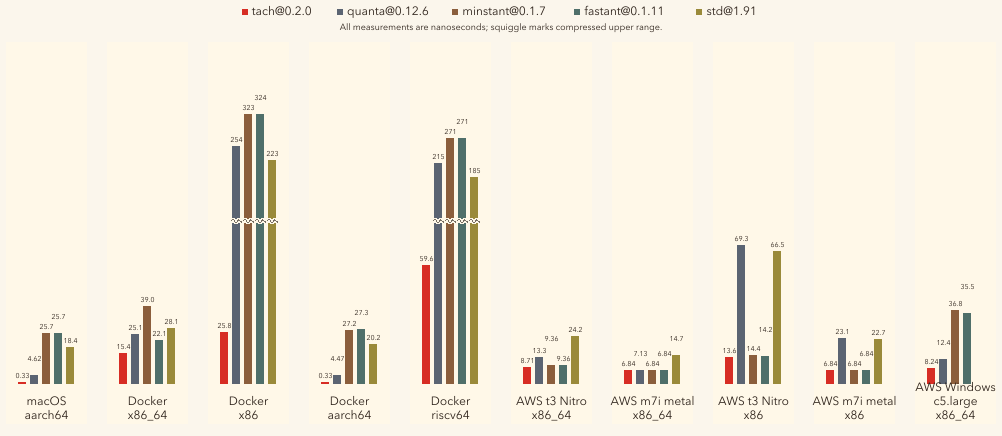
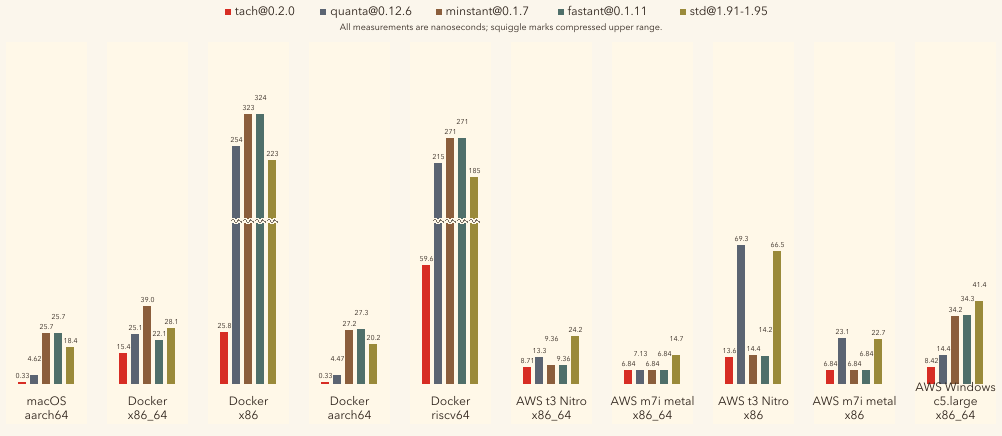
docs: refresh windows benchmark data

diff --git a/benches/assets/render_benchmark.py b/benches/assets/render_benchmark.py
@@ -22,7 +22,7 @@ CRATES = [
   ("quanta@0.12.6", "#5B6472"),
   ("minstant@0.1.7", "#8B5E3C"),
   ("fastant@0.1.11", "#4F6F6A"),
-  ("std@1.91", "#9A8A3A"),
+  ("std@1.91-1.95", "#9A8A3A"),
 ]
 
 GROUPS = [
@@ -35,7 +35,7 @@ GROUPS = [
   (("AWS m7i metal", "x86_64"), [6.841, 7.130, 6.841, 6.841, 14.734]),
   (("AWS t3 Nitro", "x86"), [13.552, 69.312, 14.363, 14.154, 66.458]),
   (("AWS m7i metal", "x86"), [6.841, 23.066, 6.841, 6.841, 22.743]),
-  (("AWS Windows", "c5.large", "x86_64"), [8.236, 12.355, 36.757, 35.516, None]),
+  (("AWS Windows", "c5.large", "x86_64"), [8.417, 14.367, 34.247, 34.286, 41.391]),
 ]
 
 BAR_WIDTH = 8

diff --git a/benches/runtime-selection-validation-2026-05-08.md b/benches/runtime-selection-validation-2026-05-08.md
@@ -6,20 +6,21 @@ Rows were produced by `tools/selection-validation-runner` with
 fastest valid clocks for that target/environment. Scores are median `ns/op` for
 `now()` reads.
 
-┌────────────────┬───────────────────┬────────────────┬───────────────────┬──────────┬──────────┬──────────┬──────────┬──────────┬──────────┐
-│ Environment    │ Target            │ Instant clock  │ Cycles clock      │ Instant  │ Cycles   │ quanta   │ minstant │ fastant  │ std      │
-├────────────────┼───────────────────┼────────────────┼───────────────────┼──────────┼──────────┼──────────┼──────────┼──────────┼──────────┤
-│ AWS t3 Nitro   │ x86_64-linux-musl │ x86_64-rdtsc   │ x86_64-rdtsc      │ 8.711    │ 8.066    │ 13.254   │ 9.356    │ 9.356    │ 24.249   │
-│ AWS m7i metal  │ x86_64-linux-musl │ x86_64-rdtsc   │ x86_64-perf-rdpmc │ 6.841    │ 5.262    │ 7.130    │ 6.841    │ 6.841    │ 14.734   │
-│ AWS m7i metal  │ x86_64-linux-gnu  │ x86_64-rdtsc   │ x86_64-perf-rdpmc │ 6.842    │ 5.526    │ 7.395    │ 6.842    │ 6.842    │ 14.812   │
-│ AWS t3 Nitro   │ x86-linux-musl    │ x86-rdtsc      │ x86-rdtsc         │ 13.552   │ 13.551   │ 69.312   │ 14.363   │ 14.154   │ 66.458   │
-│ AWS m7i metal  │ x86-linux-musl    │ x86-rdtsc      │ x86-rdtsc         │ 6.841    │ 6.841    │ 23.066   │ 6.841    │ 6.841    │ 22.743   │
-│ Docker amd64   │ x86_64-linux-gnu  │ x86_64-rdtsc   │ x86_64-rdtsc      │ 15.394   │ 15.222   │ 25.079   │ 39.050   │ 22.066   │ 28.070   │
-│ Docker 386     │ x86-linux-gnu     │ x86-rdtsc      │ x86-rdtsc         │ 25.789   │ 25.780   │ 253.702  │ 323.398  │ 324.264  │ 222.623  │
-│ Docker arm64   │ aarch64-linux-gnu │ aarch64-cntvct │ aarch64-cntvct    │ 0.330    │ 0.330    │ 4.466    │ 27.203   │ 27.275   │ 20.222   │
-│ Docker riscv64 │ riscv64-linux-gnu │ riscv64-rdtime │ riscv64-rdcycle   │ 59.584   │ 58.656   │ 215.296  │ 271.262  │ 271.241  │ 185.151  │
-│ local macOS    │ aarch64-macos     │ aarch64-cntvct │ aarch64-cntvct    │ 0.330    │ 0.330    │ 4.622    │ 25.740   │ 25.683   │ 18.422   │
-└────────────────┴───────────────────┴────────────────┴───────────────────┴──────────┴──────────┴──────────┴──────────┴──────────┴──────────┘
+┌────────────────┬─────────────────────┬────────────────┬───────────────────┬─────────┬────────┬─────────┬──────────┬─────────┬─────────┐
+│ Environment    │ Target              │ Instant clock  │ Cycles clock      │ Instant │ Cycles │ quanta  │ minstant │ fastant │ std     │
+├────────────────┼─────────────────────┼────────────────┼───────────────────┼─────────┼────────┼─────────┼──────────┼─────────┼─────────┤
+│ AWS t3 Nitro   │ x86_64-linux-musl   │ x86_64-rdtsc   │ x86_64-rdtsc      │ 8.711   │ 8.066  │ 13.254  │ 9.356    │ 9.356   │ 24.249  │
+│ AWS m7i metal  │ x86_64-linux-musl   │ x86_64-rdtsc   │ x86_64-perf-rdpmc │ 6.841   │ 5.262  │ 7.130   │ 6.841    │ 6.841   │ 14.734  │
+│ AWS m7i metal  │ x86_64-linux-gnu    │ x86_64-rdtsc   │ x86_64-perf-rdpmc │ 6.842   │ 5.526  │ 7.395   │ 6.842    │ 6.842   │ 14.812  │
+│ AWS Windows    │ x86_64-windows-msvc │ x86_64-rdtsc   │ x86_64-rdtsc      │ 8.417   │ 8.351  │ 14.367  │ 34.247   │ 34.286  │ 41.391  │
+│ AWS t3 Nitro   │ x86-linux-musl      │ x86-rdtsc      │ x86-rdtsc         │ 13.552  │ 13.551 │ 69.312  │ 14.363   │ 14.154  │ 66.458  │
+│ AWS m7i metal  │ x86-linux-musl      │ x86-rdtsc      │ x86-rdtsc         │ 6.841   │ 6.841  │ 23.066  │ 6.841    │ 6.841   │ 22.743  │
+│ Docker amd64   │ x86_64-linux-gnu    │ x86_64-rdtsc   │ x86_64-rdtsc      │ 15.394  │ 15.222 │ 25.079  │ 39.050   │ 22.066  │ 28.070  │
+│ Docker 386     │ x86-linux-gnu       │ x86-rdtsc      │ x86-rdtsc         │ 25.789  │ 25.780 │ 253.702 │ 323.398  │ 324.264 │ 222.623 │
+│ Docker arm64   │ aarch64-linux-gnu   │ aarch64-cntvct │ aarch64-cntvct    │ 0.330   │ 0.330  │ 4.466   │ 27.203   │ 27.275  │ 20.222  │
+│ Docker riscv64 │ riscv64-linux-gnu   │ riscv64-rdtime │ riscv64-rdcycle   │ 59.584  │ 58.656 │ 215.296 │ 271.262  │ 271.241 │ 185.151 │
+│ local macOS    │ aarch64-macos       │ aarch64-cntvct │ aarch64-cntvct    │ 0.330   │ 0.330  │ 4.622   │ 25.740   │ 25.683  │ 18.422  │
+└────────────────┴─────────────────────┴────────────────┴───────────────────┴─────────┴────────┴─────────┴──────────┴─────────┴─────────┘
 
 The x86_64 Linux rows are the runtime-selection proof point: the same target
 family selected `RDTSC` for `Cycles` on AWS t3 Nitro and `perf-RDPMC` on AWS m7i

diff --git a/README.md b/README.md
@@ -20,22 +20,20 @@ range for Docker outliers.
 
 Fresh validation runs below were produced with
 `tools/selection-validation-runner` on May 8, 2026. Each row was enforced
-against the expected fastest valid clocks for that target/environment. The
-Windows c5.large row comes from the May 7, 2026 selection validation run, which
-did not capture `std`.
+against the expected fastest valid clocks for that target/environment.
 
-| Environment        | Target              | Instant clock | Cycles clock     | Instant | Cycles | quanta | minstant | fastant | std    |
-|--------------------|---------------------|---------------|------------------|--------:|-------:|-------:|---------:|--------:|-------:|
-| AWS t3 Nitro       | x86_64-linux-musl   | x86_64-rdtsc  | x86_64-rdtsc     | 8.711ns | 8.066ns | 13.254ns | 9.356ns | 9.356ns | 24.249ns |
-| AWS m7i metal      | x86_64-linux-musl   | x86_64-rdtsc  | x86_64-perf-rdpmc | 6.841ns | 5.262ns | 7.130ns | 6.841ns | 6.841ns | 14.734ns |
-| AWS m7i metal      | x86_64-linux-gnu    | x86_64-rdtsc  | x86_64-perf-rdpmc | 6.842ns | 5.526ns | 7.395ns | 6.842ns | 6.842ns | 14.812ns |
-| AWS Windows c5.large | x86_64-windows-msvc | x86_64-rdtsc | x86_64-rdtsc    | 8.236ns | 8.237ns | 12.355ns | 36.757ns | 35.516ns | — |
-| AWS t3 Nitro       | x86-linux-musl      | x86-rdtsc     | x86-rdtsc        | 13.552ns | 13.551ns | 69.312ns | 14.363ns | 14.154ns | 66.458ns |
-| AWS m7i metal      | x86-linux-musl      | x86-rdtsc     | x86-rdtsc        | 6.841ns | 6.841ns | 23.066ns | 6.841ns | 6.841ns | 22.743ns |
-| Docker amd64       | x86_64-linux-gnu    | x86_64-rdtsc  | x86_64-rdtsc     | 15.394ns | 15.222ns | 25.079ns | 39.050ns | 22.066ns | 28.070ns |
-| Docker 386         | x86-linux-gnu       | x86-rdtsc     | x86-rdtsc        | 25.789ns | 25.780ns | 253.702ns | 323.398ns | 324.264ns | 222.623ns |
-| Docker arm64       | aarch64-linux-gnu   | aarch64-cntvct | aarch64-cntvct  | 0.330ns | 0.330ns | 4.466ns | 27.203ns | 27.275ns | 20.222ns |
-| Docker riscv64     | riscv64-linux-gnu   | riscv64-rdtime | riscv64-rdcycle | 59.584ns | 58.656ns | 215.296ns | 271.262ns | 271.241ns | 185.151ns |
+| Environment    | Target              | Instant clock  | Cycles clock      | Instant  | Cycles   | quanta    | minstant  | fastant   | std       |
+|----------------|---------------------|----------------|-------------------|----------|----------|-----------|-----------|-----------|-----------|
+| AWS t3 Nitro   | x86_64-linux-musl   | x86_64-rdtsc   | x86_64-rdtsc      | 8.711ns  | 8.066ns  | 13.254ns  | 9.356ns   | 9.356ns   | 24.249ns  |
+| AWS m7i metal  | x86_64-linux-musl   | x86_64-rdtsc   | x86_64-perf-rdpmc | 6.841ns  | 5.262ns  | 7.130ns   | 6.841ns   | 6.841ns   | 14.734ns  |
+| AWS m7i metal  | x86_64-linux-gnu    | x86_64-rdtsc   | x86_64-perf-rdpmc | 6.842ns  | 5.526ns  | 7.395ns   | 6.842ns   | 6.842ns   | 14.812ns  |
+| AWS Windows    | x86_64-windows-msvc | x86_64-rdtsc   | x86_64-rdtsc      | 8.417ns  | 8.351ns  | 14.367ns  | 34.247ns  | 34.286ns  | 41.391ns  |
+| AWS t3 Nitro   | x86-linux-musl      | x86-rdtsc      | x86-rdtsc         | 13.552ns | 13.551ns | 69.312ns  | 14.363ns  | 14.154ns  | 66.458ns  |
+| AWS m7i metal  | x86-linux-musl      | x86-rdtsc      | x86-rdtsc         | 6.841ns  | 6.841ns  | 23.066ns  | 6.841ns   | 6.841ns   | 22.743ns  |
+| Docker amd64   | x86_64-linux-gnu    | x86_64-rdtsc   | x86_64-rdtsc      | 15.394ns | 15.222ns | 25.079ns  | 39.050ns  | 22.066ns  | 28.070ns  |
+| Docker 386     | x86-linux-gnu       | x86-rdtsc      | x86-rdtsc         | 25.789ns | 25.780ns | 253.702ns | 323.398ns | 324.264ns | 222.623ns |
+| Docker arm64   | aarch64-linux-gnu   | aarch64-cntvct | aarch64-cntvct    | 0.330ns  | 0.330ns  | 4.466ns   | 27.203ns  | 27.275ns  | 20.222ns  |
+| Docker riscv64 | riscv64-linux-gnu   | riscv64-rdtime | riscv64-rdcycle   | 59.584ns | 58.656ns | 215.296ns | 271.262ns | 271.241ns | 185.151ns |
 
 ## feature comparison
 
